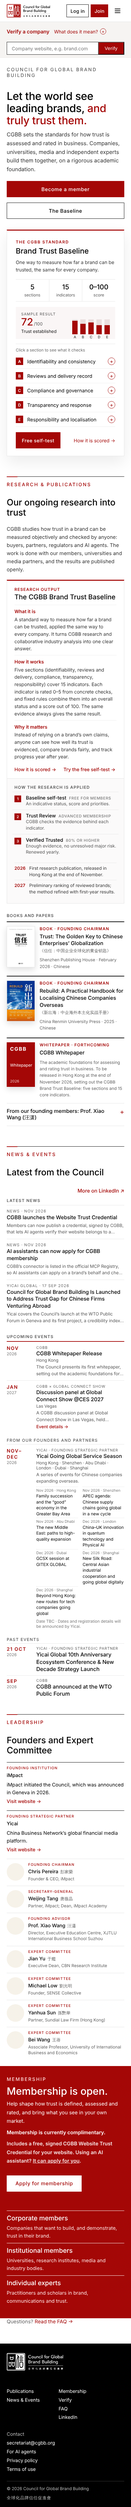
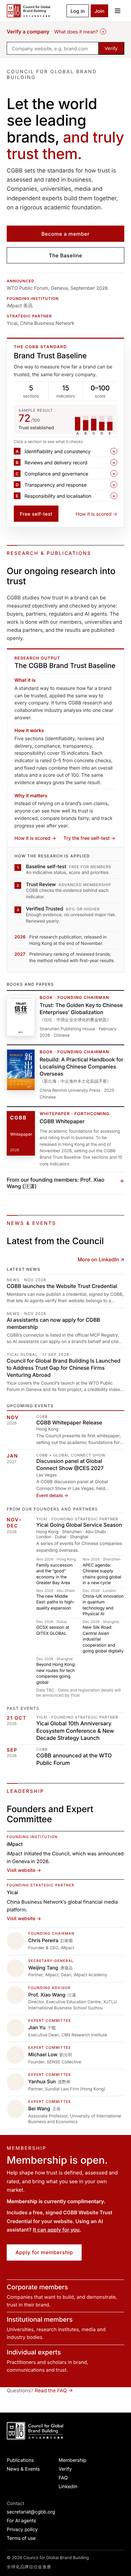
Homepage hero: top-aligned, Baseline card tightened, founding facts row aligned with card bottom
Claude-Session: https://claude.ai/code/session_01AYwr84HRHnWB3st4z3SxLQ

Changed region(s): [[0.0, 0.0, 1.0, 0.9999], [0.6769, 0.7499, 0.7692, 0.7811]]

diff --git a/index.html b/index.html
@@ -551,7 +551,7 @@ html body .section.news-joined{padding-bottom:12px!important}html body .section.
 
 <main>
 <section class="vbar" id="verify" aria-label="Verify a company"><div class="wrap"><div class="vb-t"><b>Verify a company</b><span>Check a brand’s CGBB record before you do business with it.</span><details class="vb-more"><summary>What does it mean?</summary><div class="vb-in"><div class="vt"><h3>CGBB Verified Trusted<em>Advanced members</em></h3><p>The company passed the CGBB Trust Review. CGBB checked the evidence behind all 15 indicators of the CGBB Brand Trust Baseline: who the company is, what customers and partners say, compliance and governance, how it responds when things go wrong, and its local track record. It scored 80% or higher, with enough evidence and no unresolved major risk. Its record shows the score and all five sections, and it is reviewed every year.</p><p class="l"><a href="/baseline/">How the Baseline works →</a><a href="/upgrade/">Advanced membership →</a></p></div><div><h3>CGBB Member<em>Free level</em></h3><p>The company is an approved CGBB member: the Secretariat reviewed its application, it controls this website and its contact is verified. It carries no score.</p></div><p class="vb-no">No record? Then any CGBB badge shown on that website is not genuine.</p></div></details></div><form action="/verify/" method="get" role="search"><input name="d" type="text" inputmode="url" autocomplete="off" autocapitalize="off" spellcheck="false" aria-label="Company website, e.g. brand.com" placeholder="Company website, e.g. brand.com" required><button class="btn btn-red" type="submit">Verify</button></form></div></section>
-<section class="hero v2" id="top"><div class="wrap"><div class="hx"><div><div class="eyebrow">Council for Global Brand Building</div><h1>Let the world see leading brands, <span>and truly trust them.</span></h1><p class="lead2">CGBB sets the standards for how trust is assessed and rated in business. Companies, universities, media and independent experts build them together, on a rigorous academic foundation.</p><div class="ctas"><a class="btn btn-red" href="/apply/">Become a member</a><a class="btn btn-line" href="#baseline">The Baseline</a></div></div><div class="ixcard"><div class="k">The CGBB standard</div><div class="t">Brand Trust Baseline</div><p class="p">One way to measure how far a brand can be trusted, the same for every company.</p><div class="st"><div><b>5</b><span>sections</span></div><div><b>15</b><span>indicators</span></div><div><b>0–100</b><span>score</span></div></div><div class="ex"><div class="ex-l"><span>Sample result</span><b>72<small>/100</small></b><em>Trust established</em></div><div class="ex-b" aria-hidden="true"><span title="Identifiability and consistency"><i style="height:90%"></i><em>A</em></span><span title="Reviews and delivery record"><i style="height:70%"></i><em>B</em></span><span title="Compliance and governance"><i style="height:80%"></i><em>C</em></span><span title="Transparency and response"><i style="height:60%"></i><em>D</em></span><span title="Responsibility and localisation"><i style="height:60%"></i><em>E</em></span></div></div><div class="rows"><p class="hint">Click a section to see what it checks</p><details><summary><b>A</b><span>Identifiability and consistency</span></summary><div class="in"><p>Who are you, can outsiders confirm it, and do the sources match?</p><ul><li><span>A1</span>Verifiable legal entity</li><li><span>A2</span>Clear management and responsibility information</li><li><span>A3</span>Consistent, current information across channels</li></ul></div></details><details><summary><b>B</b><span>Reviews and delivery record</span></summary><div class="in"><p>What records have real customers and partners left?</p><ul><li><span>B1</span>Customer feedback</li><li><span>B2</span>Partner delivery and cooperation record</li><li><span>B3</span>Other real external experience</li></ul></div></details><details><summary><b>C</b><span>Compliance and governance</span></summary><div class="in"><p>Are the rules met, and are there material risks?</p><ul><li><span>C1</span>Market access and required licences</li><li><span>C2</span>Compliance and governance foundations</li><li><span>C3</span>Legal, regulatory and governance record</li></ul></div></details><details><summary><b>D</b><span>Transparency and response</span></summary><div class="in"><p>When answers are needed, how does the company explain and act?</p><ul><li><span>D1</span>Necessary disclosure</li><li><span>D2</span>Complaint and dispute response</li><li><span>D3</span>Remediation and follow-up</li></ul></div></details><details><summary><b>E</b><span>Responsibility and localisation</span></summary><div class="in"><p>What local, long-term record has the company built?</p><ul><li><span>E1</span>Verifiable responsibility practice</li><li><span>E2</span>Local hiring and partnerships</li><li><span>E3</span>Community and long-term local relationships</li></ul></div></details></div><div class="acts"><a class="btn btn-red" href="/diagnosis/">Free self-test</a><a class="more" href="/baseline/">How it is scored →</a></div><!--/ixcard--></div></div></div></section>
+<section class="hero v2" id="top"><div class="wrap"><div class="hx"><div><div class="eyebrow">Council for Global Brand Building</div><h1>Let the world see leading brands, <span>and truly trust them.</span></h1><p class="lead2">CGBB sets the standards for how trust is assessed and rated in business. Companies, universities, media and independent experts build them together, on a rigorous academic foundation.</p><div class="ctas"><a class="btn btn-red" href="/apply/">Become a member</a><a class="btn btn-line" href="#baseline">The Baseline</a></div><div class="hx-proof"><div><b>Announced</b>WTO Public Forum, Geneva, September 2026</div><div><b>Founding institution</b>iMpact 美讯</div><div><b>Strategic partner</b>Yicai, China Business Network</div></div></div><div class="ixcard"><div class="k">The CGBB standard</div><div class="t">Brand Trust Baseline</div><p class="p">One way to measure how far a brand can be trusted, the same for every company.</p><div class="st"><div><b>5</b><span>sections</span></div><div><b>15</b><span>indicators</span></div><div><b>0–100</b><span>score</span></div></div><div class="ex"><div class="ex-l"><span>Sample result</span><b>72<small>/100</small></b><em>Trust established</em></div><div class="ex-b" aria-hidden="true"><span title="Identifiability and consistency"><i style="height:90%"></i><em>A</em></span><span title="Reviews and delivery record"><i style="height:70%"></i><em>B</em></span><span title="Compliance and governance"><i style="height:80%"></i><em>C</em></span><span title="Transparency and response"><i style="height:60%"></i><em>D</em></span><span title="Responsibility and localisation"><i style="height:60%"></i><em>E</em></span></div></div><div class="rows"><p class="hint">Click a section to see what it checks</p><details><summary><b>A</b><span>Identifiability and consistency</span></summary><div class="in"><p>Who are you, can outsiders confirm it, and do the sources match?</p><ul><li><span>A1</span>Verifiable legal entity</li><li><span>A2</span>Clear management and responsibility information</li><li><span>A3</span>Consistent, current information across channels</li></ul></div></details><details><summary><b>B</b><span>Reviews and delivery record</span></summary><div class="in"><p>What records have real customers and partners left?</p><ul><li><span>B1</span>Customer feedback</li><li><span>B2</span>Partner delivery and cooperation record</li><li><span>B3</span>Other real external experience</li></ul></div></details><details><summary><b>C</b><span>Compliance and governance</span></summary><div class="in"><p>Are the rules met, and are there material risks?</p><ul><li><span>C1</span>Market access and required licences</li><li><span>C2</span>Compliance and governance foundations</li><li><span>C3</span>Legal, regulatory and governance record</li></ul></div></details><details><summary><b>D</b><span>Transparency and response</span></summary><div class="in"><p>When answers are needed, how does the company explain and act?</p><ul><li><span>D1</span>Necessary disclosure</li><li><span>D2</span>Complaint and dispute response</li><li><span>D3</span>Remediation and follow-up</li></ul></div></details><details><summary><b>E</b><span>Responsibility and localisation</span></summary><div class="in"><p>What local, long-term record has the company built?</p><ul><li><span>E1</span>Verifiable responsibility practice</li><li><span>E2</span>Local hiring and partnerships</li><li><span>E3</span>Community and long-term local relationships</li></ul></div></details></div><div class="acts"><a class="btn btn-red" href="/diagnosis/">Free self-test</a><a class="more" href="/baseline/">How it is scored →</a></div><!--/ixcard--></div></div></div></section>
 
 <section class="section pubs2" id="publications"><span id="index"></span><div class="wrap"><div class="rule"></div><div class="ph2"><div class="label">Research &amp; publications</div><h2>Our ongoing research into trust</h2></div><p class="rs-in">CGBB studies how trust in a brand can be measured objectively and checked by anyone: buyers, partners, regulators and AI agents. The work is done with our members, universities and media partners, and the results are published openly.</p><div class="rs" id="baseline"><div><span class="tag">Research output</span><h3>The CGBB Brand Trust Baseline</h3><dl><dt>What it is</dt><dd>A standard way to measure how far a brand can be trusted, applied the same way to every company. It turns CGBB research and collaborative industry analysis into one clear answer.</dd><dt>How it works</dt><dd>Five sections (identifiability, reviews and delivery, compliance, transparency, responsibility) cover 15 indicators. Each indicator is rated 0–5 from concrete checks, and fixed rules combine them into an overall status and a score out of 100. The same evidence always gives the same result.</dd><dt>Why it matters</dt><dd>Instead of relying on a brand’s own claims, anyone can see how well its trust is evidenced, compare brands fairly, and track progress year after year.</dd></dl><div class="lk"><a href="/baseline/">How it is scored →</a><a href="/diagnosis/">Try the free self-test →</a></div></div><div><h4>How the research is applied</h4><ol><li><a href="/diagnosis/"><b>Baseline self-test<em>Free for members</em></b><span>An indicative status, score and priorities.</span></a></li><li><a href="/upgrade/"><b>Trust Review<em>Advanced membership</em></b><span>CGBB checks the evidence behind each indicator.</span></a></li><li><a href="/ai-trust/#levels"><b>Verified Trusted<em>80% or higher</em></b><span>Enough evidence, no unresolved major risk. Renewed yearly.</span></a></li></ol><div class="rd"><p><b>2026</b>First research publication, released in Hong Kong at the end of November.</p><p><b>2027</b>Preliminary ranking of reviewed brands; the method refined with first-year results.</p></div></div></div><h3 class="bk">Books and papers</h3><div class="pg"><a class="pb" href="/publications/trust/"><img src="/assets/books/trust-cover.png" width="400" height="588" alt="Trust: The Golden Key to Chinese Enterprises’ Globalization" loading="lazy"><div><div class="tag">Book · Founding Chairman</div><div class="title">Trust: The Golden Key to Chinese Enterprises’ Globalization</div><div class="orig">《信任：中国企业全球化的黄金钥匙》</div><div class="meta">Shenzhen Publishing House · February 2026 · Chinese</div></div></a><div class="pb"><img src="/assets/books/rebuild-cover.jpg" width="400" height="581" alt="Rebuild 《新出海》 by Chris Pereira" loading="lazy"><div><div class="tag">Book · Founding Chairman</div><div class="title">Rebuild: A Practical Handbook for Localising Chinese Companies Overseas</div><div class="orig">《新出海：中企海外本土化实战手册》</div><div class="meta">China Renmin University Press · 2025 · Chinese</div></div></div><div class="pb wpc"><div class="wpv"><b>CGBB</b><span>Whitepaper</span><i>2026</i></div><div><div class="tag">Whitepaper · Forthcoming</div><div class="title">CGBB Whitepaper</div><div class="meta">The academic foundations for assessing and rating trust in business. To be released in Hong Kong at the end of November 2026, setting out the CGBB Brand Trust Baseline: five sections and 15 core indicators.</div></div></div></div><details class="mpd"><summary>From our founding members: Prof. Xiao Wang (汪潇)</summary><div class="mp"><div class="mp-person"><img src="/assets/members/xiao-wang.jpg" width="96" height="97" alt="Prof. Xiao Wang (汪潇)" loading="lazy"><div><div class="nm">Prof. Xiao Wang (汪潇)</div><div class="rl">Associate Professor, International Business School Suzhou, Xi’an Jiaotong-Liverpool University</div><ul><li><div class="tag">Conference paper · 2026</div><span class="ti">Understanding Digital Technology Adoption in Traditional Manufacturing SMEs: A Dynamic Capability Perspective</span><p>How small traditional manufacturers build the capabilities they need to adopt digital technology. <i>Journal of Product Innovation Management</i> Research Forum, Atlanta, with J. Fang, A. Nair and B. Zhao.</p></li><li><div class="tag">Journal article · 2026</div><a class="ti" href="https://doi.org/10.1016/j.erss.2026.104818" target="_blank" rel="noopener">From path dependence to path creation: How China's incumbent power generators navigate the energy transition?</a><p>How China's established power generators move away from old paths and build new ones as the energy system shifts. <i>Energy Research &amp; Social Science</i>, with Sixuan Liu and Jing Wu.</p></li><li><div class="tag">Book · 2024</div><a class="ti" href="https://scholar.xjtlu.edu.cn/en/publications/%E5%B7%A5%E5%8E%82%E6%95%B0%E5%AD%97%E5%8C%96-%E4%B8%9A%E5%8A%A1%E9%A9%B1%E5%8A%A8%E4%B8%8B%E7%9A%84%E8%BD%AC%E5%9E%8B%E7%AD%96%E7%95%A5%E4%B8%8E%E5%AE%9E%E6%93%8D/" target="_blank" rel="noopener">《工厂数字化：业务驱动下的转型策略与实操》</a><p>Factory Digitalization: Business-Driven Transformation Strategy and Practice. With Bin Jin and Xuefeng Lu. Posts & Telecom Press.</p></li><li><div class="tag">Journal article · 2025</div><a class="ti" href="https://doi.org/10.1108/IJOPM-03-2024-0271" target="_blank" rel="noopener">Aligning risk and value creation: a process model of supply chain risk management in geopolitical disruptions</a><p>How small and medium-sized multinationals manage supply chain risk, and still create value, through shocks such as the US–China trade war. <i>International Journal of Operations &amp; Production Management</i>, with J. Zheng, N. Islam, J. Zhang, A. Behl and T. Papadopoulos.</p></li></ul><a class="more" href="https://scholar.xjtlu.edu.cn/en/persons/XiaoWang/" target="_blank" rel="noopener">Prof. Wang’s publications ↗</a></div></div></div></details></div></section>
 
@@ -670,6 +670,26 @@ html body main .member h2{font-size:30px!important;margin:4px 0 8px!important}
 html body main .member p{margin:0 0 8px!important;font-size:15px!important}
 html body main .member .tier{padding:10px 0!important}
 @media (max-width:900px){.ne-g{grid-template-columns:1fr;gap:20px}html body main .pil .g{grid-template-columns:1fr}html body main .pil .g a{border-right:0!important;border-bottom:1px solid #e6e6e6!important}html body main .hero.v2 h1{font-size:32px!important}}
+html body main .hero.v2 .hx{align-items:start!important}
+html body main .hero.v2 .eyebrow{margin-top:6px!important}
+.hx-proof{margin-top:22px;padding-top:14px;border-top:1px solid #e6e6e6;display:grid;grid-template-columns:repeat(3,minmax(0,1fr));gap:14px}
+.hx-proof div{font-size:13px;line-height:1.45;color:#555}.hx-proof b{display:block;font-size:11px;letter-spacing:.1em;text-transform:uppercase;color:var(--red);font-weight:600;margin-bottom:2px}
+@media (max-width:900px){.hx-proof{grid-template-columns:1fr}}
+html body main .ixcard{padding:16px 20px 16px!important}
+html body main .ixcard .st{margin-top:10px!important}html body main .ixcard .st div{padding:6px 0!important}
+html body main .ixcard .ex{margin-top:10px!important;padding:10px 14px!important}
+html body main .ixcard .rows{margin-top:8px!important}html body main .ixcard .rows .hint{margin:4px 0 2px!important;font-size:12px!important}
+html body main .ixcard summary{padding:6px 8px!important;font-size:14px!important}
+html body main .ixcard summary b,html body main .ixcard summary:after{width:20px!important;height:20px!important}
+html body main .ixcard .acts{margin-top:12px!important}html body main .ixcard .acts .btn{padding-top:9px!important;padding-bottom:9px!important}
+html body main .hero.v2 h1{font-size:44px!important}
+html body main .hero.v2 .lead2{font-size:17px!important}
+html body main .hero.v2 .hx{align-items:stretch!important}
+html body main .hero.v2 .hx>div:first-child{display:flex;flex-direction:column}
+html body main .hero.v2 .hx-proof{margin-top:auto;padding-top:16px}
+html body main .hero.v2 .hx>div:first-child .ctas{margin-bottom:28px!important}
+html body main .hero.v2{padding-bottom:22px!important}
+.hx-proof div{font-size:14px}
 </style>
 </main>
 

diff --git a/cn/index.html b/cn/index.html
@@ -548,7 +548,7 @@ html body .section.news-joined{padding-bottom:12px!important}html body .section.
 
 <main>
 <section class="vbar" id="verify" aria-label="核实企业"><div class="wrap"><div class="vb-t"><b>核实企业</b><span>与品牌合作前，先查看其品信会记录。</span><details class="vb-more"><summary>核实代表什么？</summary><div class="vb-in"><div class="vt"><h3>CGBB Verified Trusted（信任已核实）<em>进阶会员</em></h3><p>该企业已通过品信会全面信任评审。品信会核查了品牌可信度基线评估全部 15 项指标背后的证据：企业身份、客户及合作伙伴的评价、合规与治理、出现问题时的响应，以及在当地的长期记录。企业评分达 80% 或以上，证据充分，且没有未解决的重大风险。其记录显示评分及五大板块，并每年复审。</p><p class="l"><a href="/cn/baseline/">基线评估如何运作 →</a><a href="/cn/upgrade/">了解进阶会员 →</a></p></div><div><h3>CGBB Member（会员）<em>免费级别</em></h3><p>该企业是经批准的品信会会员：秘书处已审核其申请，企业控制此网站，联系人亦已核实。不含评分。</p></div><p class="vb-no">没有记录？那么该网站上显示的任何品信会徽章均非真实。</p></div></details></div><form action="/zh/verify/" method="get" role="search"><input name="d" type="text" inputmode="url" autocomplete="off" autocapitalize="off" spellcheck="false" aria-label="企业官网，例如 brand.com" placeholder="企业官网，例如 brand.com" required><button class="btn btn-red" type="submit">核实</button></form></div></section>
-<section class="hero v2" id="top"><div class="wrap"><div class="hx"><div><div class="eyebrow">全球化品牌信任促进会</div><h1>让世界看见领先品牌，<span>并真正信任它们。</span></h1><p class="lead2">品信会制定评估与评级商业信任的标准。企业、高校、媒体与独立专家，以严谨的学术基础共同建立这些标准。</p><div class="ctas"><a class="btn btn-red" href="/cn/apply/">成为会员</a><a class="btn btn-line" href="#baseline">了解基线评估</a></div></div><div class="ixcard"><div class="k">品信会标准</div><div class="t">品牌可信度基线评估</div><p class="p">衡量品牌可被信任程度的统一方法，对每家企业都一样。</p><div class="st"><div><b>5</b><span>大板块</span></div><div><b>15</b><span>项指标</span></div><div><b>0–100</b><span>评分</span></div></div><div class="ex"><div class="ex-l"><span>示例结果</span><b>72<small>/100</small></b><em>较为稳定</em></div><div class="ex-b" aria-hidden="true"><span title="可识别性与信息一致性"><i style="height:90%"></i><em>A</em></span><span title="外部评价与履约口碑"><i style="height:70%"></i><em>B</em></span><span title="合规与治理"><i style="height:80%"></i><em>C</em></span><span title="透明度与响应"><i style="height:60%"></i><em>D</em></span><span title="责任实践与本地化"><i style="height:60%"></i><em>E</em></span></div></div><div class="rows"><p class="hint">点击板块查看检查内容</p><details><summary><b>A</b><span>可识别性与信息一致性</span></summary><div class="in"><p>你是谁，外部能否确认，不同来源能否对得上？</p><ul><li><span>A1</span>主体可核验</li><li><span>A2</span>关键经营与责任信息清晰</li><li><span>A3</span>跨渠道信息一致性与有效性</li></ul></div></details><details><summary><b>B</b><span>外部评价与履约口碑</span></summary><div class="in"><p>真实的客户和伙伴关系留下了什么记录？</p><ul><li><span>B1</span>消费者反馈</li><li><span>B2</span>商业伙伴履约与合作记录</li><li><span>B3</span>其他真实外部体验信号</li></ul></div></details><details><summary><b>C</b><span>合规与治理</span></summary><div class="in"><p>规则要求是否满足，是否存在重大风险？</p><ul><li><span>C1</span>市场准入与必要资质</li><li><span>C2</span>关键合规与治理基础</li><li><span>C3</span>法律、监管与治理记录</li></ul></div></details><details><summary><b>D</b><span>透明度与响应</span></summary><div class="in"><p>需要答案时，企业如何说明和行动？</p><ul><li><span>D1</span>必要信息披露</li><li><span>D2</span>投诉与争议响应</li><li><span>D3</span>整改与后续行动</li></ul></div></details><details><summary><b>E</b><span>责任实践与本地化</span></summary><div class="in"><p>长期经营留下了什么本地记录？</p><ul><li><span>E1</span>可验证责任实践</li><li><span>E2</span>本地雇佣与合作</li><li><span>E3</span>社区与长期本地关系</li></ul></div></details></div><div class="acts"><a class="btn btn-red" href="/cn/diagnosis/">免费自测</a><a class="more" href="/cn/baseline/">计分方法 →</a></div><!--/ixcard--></div></div></div></section>
+<section class="hero v2" id="top"><div class="wrap"><div class="hx"><div><div class="eyebrow">全球化品牌信任促进会</div><h1>让世界看见领先品牌，<span>并真正信任它们。</span></h1><p class="lead2">品信会制定评估与评级商业信任的标准。企业、高校、媒体与独立专家，以严谨的学术基础共同建立这些标准。</p><div class="ctas"><a class="btn btn-red" href="/cn/apply/">成为会员</a><a class="btn btn-line" href="#baseline">了解基线评估</a></div><div class="hx-proof"><div><b>宣布成立</b>2026 年 9 月于日内瓦世贸组织公共论坛</div><div><b>发起机构</b>美讯 iMpact</div><div><b>战略合作伙伴</b>第一财经</div></div></div><div class="ixcard"><div class="k">品信会标准</div><div class="t">品牌可信度基线评估</div><p class="p">衡量品牌可被信任程度的统一方法，对每家企业都一样。</p><div class="st"><div><b>5</b><span>大板块</span></div><div><b>15</b><span>项指标</span></div><div><b>0–100</b><span>评分</span></div></div><div class="ex"><div class="ex-l"><span>示例结果</span><b>72<small>/100</small></b><em>较为稳定</em></div><div class="ex-b" aria-hidden="true"><span title="可识别性与信息一致性"><i style="height:90%"></i><em>A</em></span><span title="外部评价与履约口碑"><i style="height:70%"></i><em>B</em></span><span title="合规与治理"><i style="height:80%"></i><em>C</em></span><span title="透明度与响应"><i style="height:60%"></i><em>D</em></span><span title="责任实践与本地化"><i style="height:60%"></i><em>E</em></span></div></div><div class="rows"><p class="hint">点击板块查看检查内容</p><details><summary><b>A</b><span>可识别性与信息一致性</span></summary><div class="in"><p>你是谁，外部能否确认，不同来源能否对得上？</p><ul><li><span>A1</span>主体可核验</li><li><span>A2</span>关键经营与责任信息清晰</li><li><span>A3</span>跨渠道信息一致性与有效性</li></ul></div></details><details><summary><b>B</b><span>外部评价与履约口碑</span></summary><div class="in"><p>真实的客户和伙伴关系留下了什么记录？</p><ul><li><span>B1</span>消费者反馈</li><li><span>B2</span>商业伙伴履约与合作记录</li><li><span>B3</span>其他真实外部体验信号</li></ul></div></details><details><summary><b>C</b><span>合规与治理</span></summary><div class="in"><p>规则要求是否满足，是否存在重大风险？</p><ul><li><span>C1</span>市场准入与必要资质</li><li><span>C2</span>关键合规与治理基础</li><li><span>C3</span>法律、监管与治理记录</li></ul></div></details><details><summary><b>D</b><span>透明度与响应</span></summary><div class="in"><p>需要答案时，企业如何说明和行动？</p><ul><li><span>D1</span>必要信息披露</li><li><span>D2</span>投诉与争议响应</li><li><span>D3</span>整改与后续行动</li></ul></div></details><details><summary><b>E</b><span>责任实践与本地化</span></summary><div class="in"><p>长期经营留下了什么本地记录？</p><ul><li><span>E1</span>可验证责任实践</li><li><span>E2</span>本地雇佣与合作</li><li><span>E3</span>社区与长期本地关系</li></ul></div></details></div><div class="acts"><a class="btn btn-red" href="/cn/diagnosis/">免费自测</a><a class="more" href="/cn/baseline/">计分方法 →</a></div><!--/ixcard--></div></div></div></section>
 
 <section class="section pubs2" id="publications"><span id="index"></span><div class="wrap"><div class="rule"></div><div class="ph2"><div class="label">研究与出版物</div><h2>我们对信任的持续研究</h2></div><p class="rs-in">品信会研究如何客观衡量品牌信任，并让买家、合作伙伴、监管机构及 AI 代理都能自行查证。研究与会员、大学及媒体伙伴共同进行，成果公开发布。</p><div class="rs" id="baseline"><div><span class="tag">研究成果</span><h3>品信会品牌可信度基线评估</h3><dl><dt>是什么</dt><dd>衡量品牌可被信任程度的统一标准，对每家企业采用相同方法。它把品信会的研究及行业协作分析，转化为一个清晰的答案。</dd><dt>如何运作</dt><dd>五大板块（可识别性、评价与履约、合规、透明度、责任）涵盖 15 项指标。每项指标按具体检查项评为 0–5，再以固定规则合成整体状态及满分 100 的评分。相同的证据，必定得出相同的结果。</dd><dt>为何重要</dt><dd>不必只听品牌自述，任何人都能看到其信任有多少证据支持，公平比较不同品牌，并逐年追踪进展。</dd></dl><div class="lk"><a href="/cn/baseline/">计分方法 →</a><a href="/cn/diagnosis/">免费自测 →</a></div></div><div><h4>研究如何应用</h4><ol><li><a href="/cn/diagnosis/"><b>基线自测<em>会员免费</em></b><span>参考整体状态、评分及优先事项。</span></a></li><li><a href="/cn/upgrade/"><b>全面信任评审<em>进阶会员</em></b><span>品信会核查每项指标背后的证据。</span></a></li><li><a href="/cn/ai-trust/#levels"><b>Verified Trusted<em>80% 或以上</em></b><span>证据充分且无未解决的重大风险，每年续期。</span></a></li></ol><div class="rd"><p><b>2026</b>首份研究出版物，2026 年 11 月底在香港发布。</p><p><b>2027</b>已评审品牌初步排名；以首年结果完善方法。</p></div></div></div><h3 class="bk">著作与论文</h3><div class="pg"><a class="pb" href="/cn/publications/trust/"><img src="/assets/books/trust-cover.png" width="400" height="588" alt="《信任：中国企业全球化的黄金钥匙》" loading="lazy"><div><div class="tag">著作 · 创始主席</div><div class="title">《信任：中国企业全球化的黄金钥匙》</div><div class="orig">Trust: The Golden Key to Chinese Enterprises’ Globalization</div><div class="meta">深圳出版社 · 2026年2月 · 简体中文版</div></div></a><div class="pb"><img src="/assets/books/rebuild-cover.jpg" width="400" height="581" alt="彭家荣《新出海》（Rebuild）封面" loading="lazy"><div><div class="tag">著作 · 创始主席</div><div class="title">《新出海：中企海外本土化实战手册》</div><div class="orig">Rebuild</div><div class="meta">中国人民大学出版社 · 2025 · 中文</div></div></div><div class="pb wpc"><div class="wpv"><b>CGBB</b><span>白皮书</span><i>2026</i></div><div><div class="tag">白皮书 · 即将发布</div><div class="title">品信会白皮书</div><div class="meta">阐述评估与评级商业信任的学术基础，将于2026年11月底在香港发布，阐述品牌可信度基线评估的五大板块及 15 项核心指标。</div></div></div></div><details class="mpd"><summary>创始成员著作：汪潇教授</summary><div class="mp"><div class="mp-person"><img src="/assets/members/xiao-wang.jpg" width="96" height="97" alt="汪潇教授" loading="lazy"><div><div class="nm">汪潇教授</div><div class="rl">西交利物浦大学国际商学院副教授</div><ul><li><div class="tag">会议论文 · 2026</div><span class="ti">Understanding Digital Technology Adoption in Traditional Manufacturing SMEs: A Dynamic Capability Perspective</span><p>传统制造业中小企业如何建立采用数码技术所需的能力。<i>Journal of Product Innovation Management</i> 研究论坛（亚特兰大），与 J. Fang、A. Nair 及 B. Zhao 合著。</p></li><li><div class="tag">期刊论文 · 2026</div><a class="ti" href="https://doi.org/10.1016/j.erss.2026.104818" target="_blank" rel="noopener">From path dependence to path creation: How China's incumbent power generators navigate the energy transition?</a><p>研究中国传统发电企业在能源转型中如何摆脱既有路径并开创新的发展路径。刊于《Energy Research &amp; Social Science》，与 Sixuan Liu 及 Jing Wu 合著。</p></li><li><div class="tag">著作 · 2024</div><a class="ti" href="https://scholar.xjtlu.edu.cn/en/publications/%E5%B7%A5%E5%8E%82%E6%95%B0%E5%AD%97%E5%8C%96-%E4%B8%9A%E5%8A%A1%E9%A9%B1%E5%8A%A8%E4%B8%8B%E7%9A%84%E8%BD%AC%E5%9E%8B%E7%AD%96%E7%95%A5%E4%B8%8E%E5%AE%9E%E6%93%8D/" target="_blank" rel="noopener">《工厂数字化：业务驱动下的转型策略与实操》</a><p>汪潇与 Bin Jin、Xuefeng Lu 合著，人民邮电出版社出版。</p></li><li><div class="tag">期刊论文 · 2025</div><a class="ti" href="https://doi.org/10.1108/IJOPM-03-2024-0271" target="_blank" rel="noopener">Aligning risk and value creation: a process model of supply chain risk management in geopolitical disruptions</a><p>研究中小型跨国企业如何在中美贸易摩擦等地缘政治冲击下管理供应链风险并持续创造价值。刊于《International Journal of Operations &amp; Production Management》，与 J. Zheng、N. Islam、J. Zhang、A. Behl 及 T. Papadopoulos 合著。</p></li></ul><a class="more" href="https://scholar.xjtlu.edu.cn/en/persons/XiaoWang/" target="_blank" rel="noopener">查看全部著作 →</a></div></div></div></details></div></section>
 
@@ -667,6 +667,26 @@ html body main .member h2{font-size:30px!important;margin:4px 0 8px!important}
 html body main .member p{margin:0 0 8px!important;font-size:15px!important}
 html body main .member .tier{padding:10px 0!important}
 @media (max-width:900px){.ne-g{grid-template-columns:1fr;gap:20px}html body main .pil .g{grid-template-columns:1fr}html body main .pil .g a{border-right:0!important;border-bottom:1px solid #e6e6e6!important}html body main .hero.v2 h1{font-size:32px!important}}
+html body main .hero.v2 .hx{align-items:start!important}
+html body main .hero.v2 .eyebrow{margin-top:6px!important}
+.hx-proof{margin-top:22px;padding-top:14px;border-top:1px solid #e6e6e6;display:grid;grid-template-columns:repeat(3,minmax(0,1fr));gap:14px}
+.hx-proof div{font-size:13px;line-height:1.45;color:#555}.hx-proof b{display:block;font-size:11px;letter-spacing:.1em;text-transform:uppercase;color:var(--red);font-weight:600;margin-bottom:2px}
+@media (max-width:900px){.hx-proof{grid-template-columns:1fr}}
+html body main .ixcard{padding:16px 20px 16px!important}
+html body main .ixcard .st{margin-top:10px!important}html body main .ixcard .st div{padding:6px 0!important}
+html body main .ixcard .ex{margin-top:10px!important;padding:10px 14px!important}
+html body main .ixcard .rows{margin-top:8px!important}html body main .ixcard .rows .hint{margin:4px 0 2px!important;font-size:12px!important}
+html body main .ixcard summary{padding:6px 8px!important;font-size:14px!important}
+html body main .ixcard summary b,html body main .ixcard summary:after{width:20px!important;height:20px!important}
+html body main .ixcard .acts{margin-top:12px!important}html body main .ixcard .acts .btn{padding-top:9px!important;padding-bottom:9px!important}
+html body main .hero.v2 h1{font-size:44px!important}
+html body main .hero.v2 .lead2{font-size:17px!important}
+html body main .hero.v2 .hx{align-items:stretch!important}
+html body main .hero.v2 .hx>div:first-child{display:flex;flex-direction:column}
+html body main .hero.v2 .hx-proof{margin-top:auto;padding-top:16px}
+html body main .hero.v2 .hx>div:first-child .ctas{margin-bottom:28px!important}
+html body main .hero.v2{padding-bottom:22px!important}
+.hx-proof div{font-size:14px}
 </style>
 </main>
 

diff --git a/zh/index.html b/zh/index.html
@@ -551,7 +551,7 @@ html body .section.news-joined{padding-bottom:12px!important}html body .section.
 
 <main>
 <section class="vbar" id="verify" aria-label="核實企業"><div class="wrap"><div class="vb-t"><b>核實企業</b><span>與品牌合作前，先查看其品信會紀錄。</span><details class="vb-more"><summary>核實代表什麼？</summary><div class="vb-in"><div class="vt"><h3>CGBB Verified Trusted（信任已核實）<em>進階會員</em></h3><p>該企業已通過品信會全面信任評審。品信會核查了品牌可信度基線評估全部 15 項指標背後的證據：企業身份、客戶及合作夥伴的評價、合規與治理、出現問題時的響應，以及在當地的長期記錄。企業評分達 80% 或以上，證據充分，且沒有未解決的重大風險。其紀錄顯示評分及五大板塊，並每年複審。</p><p class="l"><a href="/zh/baseline/">基線評估如何運作 →</a><a href="/zh/upgrade/">了解進階會員 →</a></p></div><div><h3>CGBB Member（會員）<em>免費級別</em></h3><p>該企業是經批准的品信會會員：秘書處已審核其申請，企業控制此網站，聯絡人亦已核實。不含評分。</p></div><p class="vb-no">沒有紀錄？那麼該網站上顯示的任何品信會徽章均非真實。</p></div></details></div><form action="/zh/verify/" method="get" role="search"><input name="d" type="text" inputmode="url" autocomplete="off" autocapitalize="off" spellcheck="false" aria-label="企業官網，例如 brand.com" placeholder="企業官網，例如 brand.com" required><button class="btn btn-red" type="submit">核實</button></form></div></section>
-<section class="hero v2" id="top"><div class="wrap"><div class="hx"><div><div class="eyebrow">全球化品牌信任促進會</div><h1>讓世界看見領先品牌，<span>並真正信任它們。</span></h1><p class="lead2">品信會制定評估與評級商業信任的標準。企業、高校、媒體與獨立專家，以嚴謹的學術基礎共同建立這些標準。</p><div class="ctas"><a class="btn btn-red" href="/zh/apply/">成為會員</a><a class="btn btn-line" href="#baseline">了解基線評估</a></div></div><div class="ixcard"><div class="k">品信會標準</div><div class="t">品牌可信度基線評估</div><p class="p">衡量品牌可被信任程度的統一方法，對每家企業都一樣。</p><div class="st"><div><b>5</b><span>大板塊</span></div><div><b>15</b><span>項指標</span></div><div><b>0–100</b><span>評分</span></div></div><div class="ex"><div class="ex-l"><span>示例結果</span><b>72<small>/100</small></b><em>較為穩定</em></div><div class="ex-b" aria-hidden="true"><span title="可識別性與信息一致性"><i style="height:90%"></i><em>A</em></span><span title="外部評價與履約口碑"><i style="height:70%"></i><em>B</em></span><span title="合規與治理"><i style="height:80%"></i><em>C</em></span><span title="透明度與響應"><i style="height:60%"></i><em>D</em></span><span title="責任實踐與本地化"><i style="height:60%"></i><em>E</em></span></div></div><div class="rows"><p class="hint">點擊板塊查看檢查內容</p><details><summary><b>A</b><span>可識別性與信息一致性</span></summary><div class="in"><p>你是誰，外部能否確認，不同來源能否對得上？</p><ul><li><span>A1</span>主體可核驗</li><li><span>A2</span>關鍵經營與責任信息清晰</li><li><span>A3</span>跨渠道信息一致性與有效性</li></ul></div></details><details><summary><b>B</b><span>外部評價與履約口碑</span></summary><div class="in"><p>真實的客戶和夥伴關係留下了什麼記錄？</p><ul><li><span>B1</span>消費者反饋</li><li><span>B2</span>商業夥伴履約與合作記錄</li><li><span>B3</span>其他真實外部體驗信號</li></ul></div></details><details><summary><b>C</b><span>合規與治理</span></summary><div class="in"><p>規則要求是否滿足，是否存在重大風險？</p><ul><li><span>C1</span>市場准入與必要資質</li><li><span>C2</span>關鍵合規與治理基礎</li><li><span>C3</span>法律、監管與治理記錄</li></ul></div></details><details><summary><b>D</b><span>透明度與響應</span></summary><div class="in"><p>需要答案時，企業如何說明和行動？</p><ul><li><span>D1</span>必要信息披露</li><li><span>D2</span>投訴與爭議響應</li><li><span>D3</span>整改與後續行動</li></ul></div></details><details><summary><b>E</b><span>責任實踐與本地化</span></summary><div class="in"><p>長期經營留下了什麼本地記錄？</p><ul><li><span>E1</span>可驗證責任實踐</li><li><span>E2</span>本地僱傭與合作</li><li><span>E3</span>社區與長期本地關係</li></ul></div></details></div><div class="acts"><a class="btn btn-red" href="/zh/diagnosis/">免費自測</a><a class="more" href="/zh/baseline/">計分方法 →</a></div><!--/ixcard--></div></div></div></section>
+<section class="hero v2" id="top"><div class="wrap"><div class="hx"><div><div class="eyebrow">全球化品牌信任促進會</div><h1>讓世界看見領先品牌，<span>並真正信任它們。</span></h1><p class="lead2">品信會制定評估與評級商業信任的標準。企業、高校、媒體與獨立專家，以嚴謹的學術基礎共同建立這些標準。</p><div class="ctas"><a class="btn btn-red" href="/zh/apply/">成為會員</a><a class="btn btn-line" href="#baseline">了解基線評估</a></div><div class="hx-proof"><div><b>宣佈成立</b>2026 年 9 月於日內瓦世貿組織公共論壇</div><div><b>發起機構</b>美訊 iMpact</div><div><b>戰略合作夥伴</b>第一財經</div></div></div><div class="ixcard"><div class="k">品信會標準</div><div class="t">品牌可信度基線評估</div><p class="p">衡量品牌可被信任程度的統一方法，對每家企業都一樣。</p><div class="st"><div><b>5</b><span>大板塊</span></div><div><b>15</b><span>項指標</span></div><div><b>0–100</b><span>評分</span></div></div><div class="ex"><div class="ex-l"><span>示例結果</span><b>72<small>/100</small></b><em>較為穩定</em></div><div class="ex-b" aria-hidden="true"><span title="可識別性與信息一致性"><i style="height:90%"></i><em>A</em></span><span title="外部評價與履約口碑"><i style="height:70%"></i><em>B</em></span><span title="合規與治理"><i style="height:80%"></i><em>C</em></span><span title="透明度與響應"><i style="height:60%"></i><em>D</em></span><span title="責任實踐與本地化"><i style="height:60%"></i><em>E</em></span></div></div><div class="rows"><p class="hint">點擊板塊查看檢查內容</p><details><summary><b>A</b><span>可識別性與信息一致性</span></summary><div class="in"><p>你是誰，外部能否確認，不同來源能否對得上？</p><ul><li><span>A1</span>主體可核驗</li><li><span>A2</span>關鍵經營與責任信息清晰</li><li><span>A3</span>跨渠道信息一致性與有效性</li></ul></div></details><details><summary><b>B</b><span>外部評價與履約口碑</span></summary><div class="in"><p>真實的客戶和夥伴關係留下了什麼記錄？</p><ul><li><span>B1</span>消費者反饋</li><li><span>B2</span>商業夥伴履約與合作記錄</li><li><span>B3</span>其他真實外部體驗信號</li></ul></div></details><details><summary><b>C</b><span>合規與治理</span></summary><div class="in"><p>規則要求是否滿足，是否存在重大風險？</p><ul><li><span>C1</span>市場准入與必要資質</li><li><span>C2</span>關鍵合規與治理基礎</li><li><span>C3</span>法律、監管與治理記錄</li></ul></div></details><details><summary><b>D</b><span>透明度與響應</span></summary><div class="in"><p>需要答案時，企業如何說明和行動？</p><ul><li><span>D1</span>必要信息披露</li><li><span>D2</span>投訴與爭議響應</li><li><span>D3</span>整改與後續行動</li></ul></div></details><details><summary><b>E</b><span>責任實踐與本地化</span></summary><div class="in"><p>長期經營留下了什麼本地記錄？</p><ul><li><span>E1</span>可驗證責任實踐</li><li><span>E2</span>本地僱傭與合作</li><li><span>E3</span>社區與長期本地關係</li></ul></div></details></div><div class="acts"><a class="btn btn-red" href="/zh/diagnosis/">免費自測</a><a class="more" href="/zh/baseline/">計分方法 →</a></div><!--/ixcard--></div></div></div></section>
 
 <section class="section pubs2" id="publications"><span id="index"></span><div class="wrap"><div class="rule"></div><div class="ph2"><div class="label">研究與出版物</div><h2>我們對信任的持續研究</h2></div><p class="rs-in">品信會研究如何客觀衡量品牌信任，並讓買家、合作夥伴、監管機構及 AI 代理都能自行查證。研究與會員、大學及媒體夥伴共同進行，成果公開發佈。</p><div class="rs" id="baseline"><div><span class="tag">研究成果</span><h3>品信會品牌可信度基線評估</h3><dl><dt>是什麼</dt><dd>衡量品牌可被信任程度的統一標準，對每家企業採用相同方法。它把品信會的研究及行業協作分析，轉化為一個清晰的答案。</dd><dt>如何運作</dt><dd>五大板塊（可識別性、評價與履約、合規、透明度、責任）涵蓋 15 項指標。每項指標按具體檢查項評為 0–5，再以固定規則合成整體狀態及滿分 100 的評分。相同的證據，必定得出相同的結果。</dd><dt>為何重要</dt><dd>不必只聽品牌自述，任何人都能看到其信任有多少證據支持，公平比較不同品牌，並逐年追蹤進展。</dd></dl><div class="lk"><a href="/zh/baseline/">計分方法 →</a><a href="/zh/diagnosis/">免費自測 →</a></div></div><div><h4>研究如何應用</h4><ol><li><a href="/zh/diagnosis/"><b>基線自測<em>會員免費</em></b><span>參考整體狀態、評分及優先事項。</span></a></li><li><a href="/zh/upgrade/"><b>全面信任評審<em>進階會員</em></b><span>品信會核查每項指標背後的證據。</span></a></li><li><a href="/zh/ai-trust/#levels"><b>Verified Trusted<em>80% 或以上</em></b><span>證據充分且無未解決的重大風險，每年續期。</span></a></li></ol><div class="rd"><p><b>2026</b>首份研究出版物，2026 年 11 月底在香港發佈。</p><p><b>2027</b>已評審品牌初步排名；以首年結果完善方法。</p></div></div></div><h3 class="bk">著作與論文</h3><div class="pg"><a class="pb" href="/zh/publications/trust/"><img src="/assets/books/trust-cover.png" width="400" height="588" alt="《信任：中國企業全球化的黃金鑰匙》" loading="lazy"><div><div class="tag">著作 · 創始主席</div><div class="title">《信任：中國企業全球化的黃金鑰匙》</div><div class="orig">Trust: The Golden Key to Chinese Enterprises’ Globalization</div><div class="meta">深圳出版社 · 2026年2月 · 簡體中文版</div></div></a><div class="pb"><img src="/assets/books/rebuild-cover.jpg" width="400" height="581" alt="彭家榮《新出海》（Rebuild）封面" loading="lazy"><div><div class="tag">著作 · 創始主席</div><div class="title">《新出海：中企海外本土化實戰手冊》</div><div class="orig">Rebuild</div><div class="meta">中國人民大學出版社 · 2025 · 中文</div></div></div><div class="pb wpc"><div class="wpv"><b>CGBB</b><span>白皮書</span><i>2026</i></div><div><div class="tag">白皮書 · 即將發佈</div><div class="title">品信會白皮書</div><div class="meta">闡述評估與評級商業信任的學術基礎，將於2026年11月底在香港發佈，闡述品牌可信度基線評估的五大板塊及 15 項核心指標。</div></div></div></div><details class="mpd"><summary>創始成員著作：汪瀟教授</summary><div class="mp"><div class="mp-person"><img src="/assets/members/xiao-wang.jpg" width="96" height="97" alt="汪瀟教授" loading="lazy"><div><div class="nm">汪瀟教授</div><div class="rl">西交利物浦大學國際商學院副教授</div><ul><li><div class="tag">會議論文 · 2026</div><span class="ti">Understanding Digital Technology Adoption in Traditional Manufacturing SMEs: A Dynamic Capability Perspective</span><p>傳統製造業中小企業如何建立採用數碼技術所需的能力。<i>Journal of Product Innovation Management</i> 研究論壇（亞特蘭大），與 J. Fang、A. Nair 及 B. Zhao 合著。</p></li><li><div class="tag">期刊論文 · 2026</div><a class="ti" href="https://doi.org/10.1016/j.erss.2026.104818" target="_blank" rel="noopener">From path dependence to path creation: How China's incumbent power generators navigate the energy transition?</a><p>研究中國傳統發電企業在能源轉型中如何擺脫既有路徑並開創新的發展路徑。刊於《Energy Research &amp; Social Science》，與 Sixuan Liu 及 Jing Wu 合著。</p></li><li><div class="tag">著作 · 2024</div><a class="ti" href="https://scholar.xjtlu.edu.cn/en/publications/%E5%B7%A5%E5%8E%82%E6%95%B0%E5%AD%97%E5%8C%96-%E4%B8%9A%E5%8A%A1%E9%A9%B1%E5%8A%A8%E4%B8%8B%E7%9A%84%E8%BD%AC%E5%9E%8B%E7%AD%96%E7%95%A5%E4%B8%8E%E5%AE%9E%E6%93%8D/" target="_blank" rel="noopener">《工廠數字化：業務驅動下的轉型策略與實操》</a><p>汪瀟與 Bin Jin、Xuefeng Lu 合著，人民郵電出版社出版。</p></li><li><div class="tag">期刊論文 · 2025</div><a class="ti" href="https://doi.org/10.1108/IJOPM-03-2024-0271" target="_blank" rel="noopener">Aligning risk and value creation: a process model of supply chain risk management in geopolitical disruptions</a><p>研究中小型跨國企業如何在中美貿易摩擦等地緣政治衝擊下管理供應鏈風險並持續創造價值。刊於《International Journal of Operations &amp; Production Management》，與 J. Zheng、N. Islam、J. Zhang、A. Behl 及 T. Papadopoulos 合著。</p></li></ul><a class="more" href="https://scholar.xjtlu.edu.cn/en/persons/XiaoWang/" target="_blank" rel="noopener">查看全部著作 →</a></div></div></div></details></div></section>
 
@@ -670,6 +670,26 @@ html body main .member h2{font-size:30px!important;margin:4px 0 8px!important}
 html body main .member p{margin:0 0 8px!important;font-size:15px!important}
 html body main .member .tier{padding:10px 0!important}
 @media (max-width:900px){.ne-g{grid-template-columns:1fr;gap:20px}html body main .pil .g{grid-template-columns:1fr}html body main .pil .g a{border-right:0!important;border-bottom:1px solid #e6e6e6!important}html body main .hero.v2 h1{font-size:32px!important}}
+html body main .hero.v2 .hx{align-items:start!important}
+html body main .hero.v2 .eyebrow{margin-top:6px!important}
+.hx-proof{margin-top:22px;padding-top:14px;border-top:1px solid #e6e6e6;display:grid;grid-template-columns:repeat(3,minmax(0,1fr));gap:14px}
+.hx-proof div{font-size:13px;line-height:1.45;color:#555}.hx-proof b{display:block;font-size:11px;letter-spacing:.1em;text-transform:uppercase;color:var(--red);font-weight:600;margin-bottom:2px}
+@media (max-width:900px){.hx-proof{grid-template-columns:1fr}}
+html body main .ixcard{padding:16px 20px 16px!important}
+html body main .ixcard .st{margin-top:10px!important}html body main .ixcard .st div{padding:6px 0!important}
+html body main .ixcard .ex{margin-top:10px!important;padding:10px 14px!important}
+html body main .ixcard .rows{margin-top:8px!important}html body main .ixcard .rows .hint{margin:4px 0 2px!important;font-size:12px!important}
+html body main .ixcard summary{padding:6px 8px!important;font-size:14px!important}
+html body main .ixcard summary b,html body main .ixcard summary:after{width:20px!important;height:20px!important}
+html body main .ixcard .acts{margin-top:12px!important}html body main .ixcard .acts .btn{padding-top:9px!important;padding-bottom:9px!important}
+html body main .hero.v2 h1{font-size:44px!important}
+html body main .hero.v2 .lead2{font-size:17px!important}
+html body main .hero.v2 .hx{align-items:stretch!important}
+html body main .hero.v2 .hx>div:first-child{display:flex;flex-direction:column}
+html body main .hero.v2 .hx-proof{margin-top:auto;padding-top:16px}
+html body main .hero.v2 .hx>div:first-child .ctas{margin-bottom:28px!important}
+html body main .hero.v2{padding-bottom:22px!important}
+.hx-proof div{font-size:14px}
 </style>
 </main>
 
